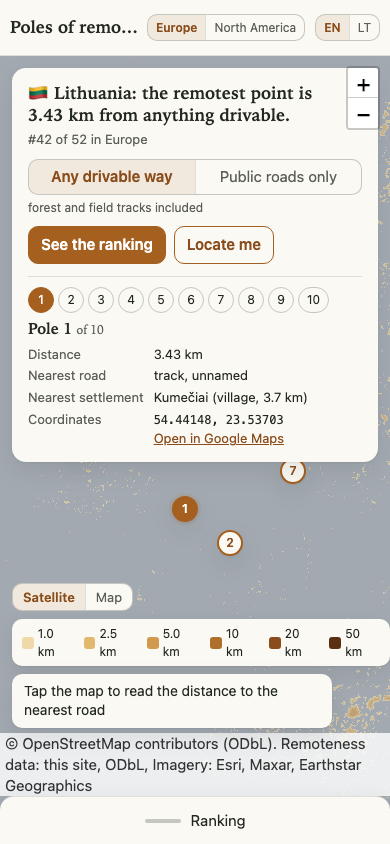
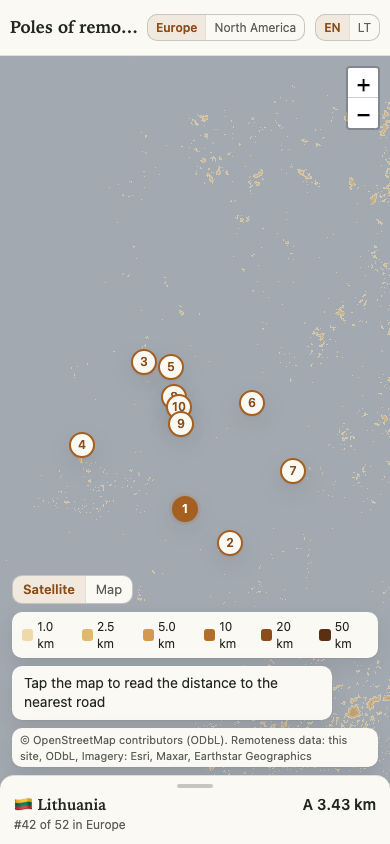
site: on phones the card is the top of the bottom sheet, the stack above it measured (#32)
The floating card covered half a phone screen and could not be hidden.
It now moves into the sheet body when the phone query matches, with a
one-row summary on the handle; the attribution joins the controls
column and the sheet publishes its closed height as --sheet-h, so no
rule encodes a rendered height. Desktop screenshots byte-identical,
phone set re-rendered, 66 node tests.

Claude-Session: https://claude.ai/code/session_01TDBtxyqUTxMYf4LU4QXe3f

diff --git a/site/css/app.css b/site/css/app.css
@@ -31,6 +31,10 @@
   --t: 170ms cubic-bezier(.3, .7, .3, 1);
   --panel-w: 360px;
   --hdr-h: 56px;
+  /* The height of the closed phone sheet, measured and written by js/ranking.js because it depends on what
+     the card's summary row wraps to. Only the phone rules read it; the zero is what the page looks like
+     before the sheet has been measured, never a layout figure. */
+  --sheet-h: 0px;
   color-scheme: light;
 }
 
@@ -115,6 +119,9 @@ button { font: inherit; color: inherit; }
 /* Card (task 6 and 8) */
 .card { position: absolute; left: 12px; top: 12px; z-index: 900; width: min(380px, calc(100% - 24px));
   background: var(--panel); border-radius: var(--r-lg); box-shadow: var(--shadow); padding: 14px 16px; }
+/* The card's summary row belongs to the phone sheet's handle (see the media query). On desktop the card
+   itself says all of it at the top of the map, so the row is not painted at all. */
+.card-summary { display: none; }
 
 /* Readout (task 5) */
 .readout { padding: 8px 12px; background: var(--panel); border-radius: var(--r-md); box-shadow: var(--shadow);
@@ -201,26 +208,46 @@ html[lang="en"] .about__body [data-lang="lt"], html[lang="lt"] .about__body [dat
   .hdr--regions .seg__btn { padding: 4px 8px; font-size: 12px; white-space: nowrap; }
   .panel { top: auto; left: 0; right: 0; width: auto; border-left: 0; border-top: 1px solid var(--hair);
     border-radius: var(--r-lg) var(--r-lg) 0 0; box-shadow: var(--shadow); transition: height var(--t); }
-  .panel--collapsed { height: 48px; }
+  /* The closed sheet is exactly its handle, whatever the summary row inside it wraps to; js/ranking.js
+     measures that and writes --sheet-h. A missing variable leaves the height at auto, which is the same
+     figure without the transition, so the sheet is never wrong, only unanimated. */
+  .panel--collapsed { height: var(--sheet-h); }
   .panel--half { height: 45%; }
   .panel--full { height: calc(100% - 8px); }
-  .panel__handle { display: flex; align-items: center; justify-content: center; gap: 10px; width: 100%; height: 48px;
-    border: 0; background: none; cursor: pointer; }
-  .panel__grip { width: 36px; height: 4px; border-radius: 2px; background: var(--hair-strong); }
+  /* The handle is the sheet's face: the grip, then the card's summary row. The button is the whole face, so
+     the tap target is as wide as the screen and as tall as the summary needs. It never shrinks: the panel's
+     height is derived from it, and a handle that gave way to a stale height would keep it stale. */
+  .panel__handle { display: flex; flex: none; flex-direction: column; align-items: stretch; gap: 6px; width: 100%;
+    padding: 8px 14px 10px; border: 0; background: none; cursor: pointer; text-align: left; }
+  .panel__grip { align-self: center; width: 36px; height: 4px; border-radius: 2px; background: var(--hair-strong); }
+  /* The summary row, the card's first two lines said in one: the unit, its distance in the active scenario,
+     its rank. With it on the handle the word "Ranking" would only repeat what the body says, so it goes. */
+  .card-summary { display: block; }
+  .card-summary[hidden] { display: none; }
+  .card-summary:not([hidden]) ~ .panel__handle-text { display: none; }
+  .card-summary__line { display: flex; align-items: baseline; gap: 8px; }
+  .card-summary__name { flex: 1; min-width: 0; font: 600 15px/1.3 var(--serif); }
+  .card-summary__none { display: block; font: 600 15px/1.3 var(--serif); }
+  .card-summary__dist { flex: none; font-weight: 600; font-variant-numeric: tabular-nums; white-space: nowrap; }
+  .card-summary__rank { display: block; font-size: 12px; color: var(--ink-2); }
   .panel--collapsed .panel__body { display: none; }
-  /* The bottom stack on a phone, from the screen edge up: the collapsed sheet's 48px handle, then the
-     Leaflet attribution, then the map controls. The attribution defaults to the very bottom, where it hides
-     the grip and swallows the tap; lifting it clear of the handle costs the controls its height in turn
-     (three lines at these widths), or it would cover the readout pill. Leaflet parks its control corners at
-     z-index 1000, above the sheet, so the attribution is dropped to the map controls' layer as well: an open
-     sheet has to cover it, not be sliced by it. */
-  .leaflet-bottom { bottom: 48px; z-index: 800; }
-  .mapctl { bottom: 116px; }
-  .card { width: calc(100% - 24px); }
-  /* The full-width card runs under Leaflet's zoom control, which stays where Leaflet puts it (top right of
-     the map, 34px wide with its border, 10px of margin, 64px tall on a touch device): its left edge is 44px
-     from the screen edge. The card sits 12px in and pads 16px, so its text already stops 28px from the edge;
-     24px more leaves 8px of clearance. The card's top two lines are the ones the control reaches, so they
-     wrap before it instead of under it (#34). */
-  .card__headline, .card__rank { padding-right: 24px; }
+  /* The card is moved into the sheet body here (js/app.js), so it stops being a box over the map and becomes
+     the body's first section, scrolling with the ranking under it. Its headline and rank line stay behind:
+     the summary row on the handle says both, and says them whether the sheet is open or shut. */
+  .panel .card { position: static; width: auto; padding: 0 0 12px; margin: 0 0 12px; background: none;
+    border-radius: 0; box-shadow: none; border-bottom: 1px solid var(--hair); }
+  .panel .card__headline, .panel .card__rank { display: none; }
+  /* The bottom stack on a phone, from the screen edge up: the sheet at its measured height, then one column
+     holding the base map switch, the legend, the readout pill and the Leaflet attribution, which js/app.js
+     moves in here. Stacking the attribution rather than lifting the controls over it is what takes its
+     rendered height out of the layout: it wraps to as many lines as the width needs and the column grows
+     with it (#32). Leaflet parks its control corners at z-index 1000, above the sheet, so all four corners
+     drop to this column's layer: an open sheet has to cover the map's own furniture, not be sliced by it.
+     The zoom control is the corner that matters, sitting where the full sheet's summary row lands. */
+  .leaflet-top, .leaflet-bottom { z-index: 800; }
+  .mapctl { right: 12px; bottom: calc(var(--sheet-h) + 8px); }
+  /* Out of .leaflet-container the attribution loses Leaflet's own background, which was white in both
+     schemes anyway; here it wears the skin the legend and the readout wear. */
+  .mapctl .leaflet-control-attribution { background: var(--panel); color: var(--ink-2); font-size: 11px;
+    padding: 4px 8px; border-radius: var(--r-md); box-shadow: var(--shadow); }
 }

diff --git a/site/js/card.js b/site/js/card.js
@@ -1,7 +1,9 @@
 // The card: the headline sentence for the unit, the scenario toggle, the two actions, and the selected pole.
+// The summary element is the same facts in one row, for the phone sheet's handle; it is optional, so a
+// caller with nowhere to put it can leave it out.
 import { t, unitName, regionLabel, flag, fmtDist, fmtKmExact, highwayLabel, placeLabel, esc } from './i18n.js';
 
-export function createCard(el, { onScenario, onRanking, onLocate, onPole }) {
+export function createCard(el, { summary, onScenario, onRanking, onLocate, onPole }) {
   let view = null; // { region, unit, units, doc, scenario, rank }
 
   el.addEventListener('click', (e) => {
@@ -13,22 +15,43 @@ export function createCard(el, { onScenario, onRanking, onLocate, onPole }) {
     else if (b.dataset.rank) onPole(Number(b.dataset.rank));
   });
 
-  function headline(v) {
-    const name = unitName(v.unit);
-    // A unit below country level has no flag (the emoji is built from a two-letter country code), so the
-    // slot and the space after it go away rather than render empty.
+  // The unit's name, and the flag ahead of it. A unit below country level has no flag (the emoji is built
+  // from a two-letter country code), so the slot and the space after it go away rather than render empty.
+  function names(v) {
     const mark = flag(v.unit.code);
-    const lead = mark ? `${esc(mark)} ` : '';
+    return { name: unitName(v.unit), lead: mark ? `${esc(mark)} ` : '' };
+  }
+
+  // Why a unit shows no distance for this scenario: held back by validation, or nothing found at all.
+  function reasonFor(v) {
+    const d = v.doc && v.doc[v.scenario];
+    return d && d.withheld ? t('reasonWithheld') : t('reasonNone');
+  }
+
+  // How many units of the region have a result in this scenario: the "of 52" in the rank line.
+  const ranked = (v) => v.units.filter((u) => u[v.scenario]).length;
+
+  function headline(v) {
+    const { name, lead } = names(v);
     const sum = v.unit[v.scenario];
-    if (!sum) {
-      const d = v.doc && v.doc[v.scenario];
-      const reason = d && d.withheld ? t('reasonWithheld') : t('reasonNone');
-      return `<p class="card__headline">${lead}${esc(t('noPoles', { name, reason }))}</p>`;
-    }
+    if (!sum) return `<p class="card__headline">${lead}${esc(t('noPoles', { name, reason: reasonFor(v) }))}</p>`;
     const what = t(v.scenario === 'A' ? 'headlineA' : 'headlineB');
-    const count = v.units.filter((u) => u[v.scenario]).length;
+    const count = ranked(v);
     return `<p class="card__headline">${lead}${esc(t('headline', { name, km: fmtKmExact(sum.dist_m), what }))}</p>
       <p class="card__rank">${esc(t('rankOf', { rank: sum.rank, count, region: regionLabel(v.region) }))}</p>`;
+  }
+
+  // The one row the phone sheet carries while it is closed: who, how far, and where that ranks. It says what
+  // the headline says in fewer words, so it needs no dictionary entry of its own. The scenario letter is
+  // there because the distance changes with it and the toggle is inside the sheet, out of sight.
+  function summaryHtml(v) {
+    const { name, lead } = names(v);
+    const sum = v.unit[v.scenario];
+    if (!sum) return `<span class="card-summary__none">${lead}${esc(t('noPoles', { name, reason: reasonFor(v) }))}</span>`;
+    // The line breaks below fall between block level boxes and inside a flex row, so none of them paints.
+    return `<span class="card-summary__line"><span class="card-summary__name">${lead}${esc(name)}</span>
+      <b class="card-summary__dist">${esc(t(`scenarioShort_${v.scenario}`))} ${esc(fmtKmExact(sum.dist_m))}</b></span>
+      <span class="card-summary__rank">${esc(t('rankOf', { rank: sum.rank, count: ranked(v), region: regionLabel(v.region) }))}</span>`;
   }
 
   function poleBlock(v) {
@@ -59,7 +82,14 @@ export function createCard(el, { onScenario, onRanking, onLocate, onPole }) {
       </dl>${withheld}</div>`;
   }
 
+  function renderSummary() {
+    if (!summary) return;
+    summary.innerHTML = view ? summaryHtml(view) : '';
+    summary.hidden = !view;
+  }
+
   function render() {
+    renderSummary();
     if (!view) { el.hidden = true; return; }
     const v = view;
     el.innerHTML = `${headline(v)}

diff --git a/site/js/ranking.js b/site/js/ranking.js
@@ -21,12 +21,25 @@ export function createRanking(el, { onPick }) {
   const list = el.querySelector('#ranking');
   const note = el.querySelector('#ranking-note');
   const handle = el.querySelector('#panel-handle');
+  const body = el.querySelector('#panel-body');
   let view = { units: [], scenario: 'A', current: null };
   let sheet;
 
+  // What the phone stack above the sheet rests on: the height of the closed sheet, which is the handle plus
+  // the sheet's own top border, and the handle is whatever the card's summary row wraps to at this width in
+  // this language. Measured here and published as --sheet-h, so no rule has to state it and no width has to
+  // be guessed. Rounded up, because a sheet a fraction shorter than its handle would push the grip off the
+  // bottom of the screen. The handle is display:none on desktop, where nothing reads the variable.
+  function measure() {
+    const border = parseFloat(getComputedStyle(el).borderTopWidth) || 0;
+    document.documentElement.style.setProperty('--sheet-h', `${Math.ceil(handle.getBoundingClientRect().height + border)}px`);
+  }
+  if (typeof ResizeObserver === 'function') new ResizeObserver(measure).observe(handle);
+  else window.addEventListener('resize', measure);
+
   // The one place that scrolls the current unit into view, for the desktop panel and the phone sheet alike.
   // A sheet that has just been opened is still animating its height, so this runs against a container that
-  // is about to grow: 'center' would be computed against the 48 px collapsed sheet and land the row a few
+  // is about to grow: 'center' would be computed against the closed sheet's height and land the row a few
   // pixels under the top edge once the sheet has grown. 'start' does not read the container's height; the
   // row's scroll-margin-top keeps the body's top padding above it.
   function showCurrent(block) {
@@ -34,12 +47,17 @@ export function createRanking(el, { onPick }) {
     if (cur) cur.scrollIntoView({ block });
   }
 
-  function setState(next) {
+  // reveal says what the reader was after: 'current' the ranking row of the unit on screen, 'top' the card at
+  // the head of the body, 'keep' whatever they had scrolled to.
+  function setState(next, { reveal = 'current' } = {}) {
     sheet = STATES.includes(next) ? next : 'collapsed';
     STATES.forEach((s) => el.classList.toggle(`panel--${s}`, s === sheet));
     handle.setAttribute('aria-expanded', String(sheet !== 'collapsed'));
+    measure();
+    if (sheet === 'collapsed') return;
     // Opening the sheet at rank 1 hides the unit the reader is looking at, wherever it ranks (#35).
-    if (sheet !== 'collapsed') showCurrent('start');
+    if (reveal === 'current') showCurrent('start');
+    else if (reveal === 'top' && body) body.scrollTop = 0;
   }
 
   function row(u) {
@@ -70,7 +88,13 @@ export function createRanking(el, { onPick }) {
     const b = e.target.closest('button[data-code]');
     if (b) onPick(b.dataset.code);
   });
-  handle.addEventListener('click', () => setState(STATES[(STATES.indexOf(sheet) + 1) % STATES.length]));
+  // The handle opens the card, not the list: on a phone the card's own section is the top of the body, and a
+  // sheet that scrolled straight past it to the ranking would look as if the card were gone. Half to full
+  // keeps the place the reader had scrolled to. "See the ranking" is the way to the list, and it still is.
+  handle.addEventListener('click', () => {
+    const next = STATES[(STATES.indexOf(sheet) + 1) % STATES.length];
+    setState(next, { reveal: sheet === 'collapsed' ? 'top' : 'keep' });
+  });
 
   // The class on the panel and the variable have to start out saying the same thing, so the starting state
   // is applied rather than assumed.

diff --git a/site/js/app.js b/site/js/app.js
@@ -148,7 +148,9 @@ async function main() {
 
   const detail = createDetailOverlays(map, { region, palette });
   const markers = createMarkers(map, { onSelect: (pole) => selectPole(pole.rank, { pan: false }) });
+  const phone = matchMedia('(max-width: 720px)');
   const card = createCard(document.getElementById('card'), {
+    summary: document.getElementById('card-summary'),
     onScenario: (s) => setScenario(s),
     onRanking: () => ui.ranking && ui.ranking.open(),
     onLocate: () => ui.locate && ui.locate(),
@@ -159,10 +161,34 @@ async function main() {
   ui.ranking = createRanking(document.getElementById('panel'), {
     onPick: (code) => {
       openUnit(code, { view: 'pole' });
-      if (matchMedia('(max-width: 720px)').matches) ui.ranking.toggle();
+      if (phone.matches) ui.ranking.toggle();
     },
   });
   ui.ranking.setRows(units, state.s, unit && unit.code);
+
+  // On a phone the card is not a box floating over the map: it is the top of the bottom sheet, its one row of
+  // summary on the handle and the rest of it in the body above the ranking. Leaflet's attribution joins the
+  // map controls' column at the same time, so the stack above the sheet is one flow and no rule has to know
+  // how many lines the attribution wraps to (#32). Both are moves, not rebuilds: the card keeps the listener
+  // card.js gave it, and Leaflet keeps writing into the same attribution element. Nothing moves while the
+  // query does not match, so a desktop page is the page it always was.
+  const cardEl = document.getElementById('card');
+  const stage = document.querySelector('.stage');
+  const mapctl = document.getElementById('mapctl');
+  const panelBody = document.getElementById('panel-body');
+  const attribution = document.querySelector('.leaflet-control-attribution');
+  const attributionHome = attribution && attribution.parentElement;
+  function placeForWidth() {
+    const cardHost = phone.matches ? panelBody : stage;
+    if (cardEl.parentElement !== cardHost) {
+      if (phone.matches) cardHost.prepend(cardEl);
+      else cardHost.insertBefore(cardEl, mapctl);
+    }
+    const attributionHost = phone.matches ? mapctl : attributionHome;
+    if (attribution && attributionHost && attribution.parentElement !== attributionHost) attributionHost.append(attribution);
+  }
+  placeForWidth();
+  phone.addEventListener('change', placeForWidth);
 
   ui.locate = () => {
     say({ kind: 'loading' }, { sticky: true });

diff --git a/site/index.html b/site/index.html
@@ -29,7 +29,8 @@
 <main class="stage">
   <div id="map" class="map"></div>
 
-  <!-- Task 6 and Task 8: the card -->
+  <!-- Task 6 and Task 8: the card. On phones js/app.js moves this element into the sheet body below, where it
+       sits above the ranking; on desktop it stays here, floating over the map. -->
   <section class="card" id="card" hidden></section>
 
   <!-- Task 5: map controls and readout -->
@@ -44,8 +45,11 @@
 
   <!-- Task 7: the ranking -->
   <aside class="panel panel--collapsed" id="panel" data-i18n-aria="rankingTitle">
+    <!-- The handle is the phone sheet's face, so the card's summary row rides inside it: the whole face is one
+         tap target. Spans only, because a button may carry no flow content. It paints nothing on desktop. -->
     <button type="button" class="panel__handle" id="panel-handle" aria-expanded="false" aria-controls="panel-body">
       <span class="panel__grip" aria-hidden="true"></span>
+      <span class="card-summary" id="card-summary" hidden></span>
       <span class="panel__handle-text" data-i18n="rankingTitle"></span>
     </button>
     <div class="panel__body" id="panel-body">

diff --git a/docs/OVERVIEW.md b/docs/OVERVIEW.md
@@ -27,7 +27,7 @@ The LT-only site was a finished quick demo (owner decision 2026-08-20: disposabl
 
 **Stage 3 (#9, publish) has its local part done 2026-08-22**: the `publish` stage (class rasters, explore archives, 50 m detail rasters, R2 upload and verification, site documents), 372 pytest tests green, and one Europe local run of record (commit 3b0dbd4, 962 s; numbers in spec 3.3 and 4.1). Since the final review's fix round the stage fingerprints its inputs (`publish/inputs.json`, `detail/published.json`) and resets what a changed class table, grid raster, edge band or `--force` invalidates, so a rerun never resumes over stale artefacts; the run of record on disk is adopted as is, except that `detail/` rebuilds once (about 8 minutes) at the R2 rerun. What that run added on disk under `work/europe/2026-08-19/publish/`: `A.pmtiles` (114.2 MB) and `B.pmtiles` (128.3 MB), z0 to z9, one class byte per pixel, and 909 detail rasters over a 20 km window with their JSON georeference sidecars (13.6 MB; five are blank because their poles sit on islets narrower than a 50 m pixel), plus the class rasters and Mercator warps behind them. **The R2 part ran 2026-08-23 once the owner enabled R2**: the stage created bucket `poles-data` with its managed `r2.dev` domain and CORS rule, uploaded Europe (1,823 objects, 268,576,827 bytes, 84 s at two parts in flight), verified every key with a HEAD and each archive with a range request over the public hostname, and wrote `site/data/regions.json`, `manifest.json` (each region entry records the pipeline commit that published it), `europe/units.json` and the 52 unit documents, committed on `europe`. Three things the first real run taught, each fixed with a test the same evening: the `r2.dev` edge answers 403 to urllib's default User-Agent, so the probes name themselves (#49); its rate limiter is a window budget, so a 429 now holds every verification thread for 5, 15 and 30 s; and a request that never got an answer (one resolver hiccup in 1,825) is retried like a 429. The bucket holds both regions, 4,352 objects and 704,833,574 bytes, 6.6 percent of the free 10 GB. **Stage 3 is closed (#9).** #20 and #21 are answered by this stage and closed with it, #20 differently from its title: the published `area_km2` is stage 2's land-cell figure, because the OSM unit outlines include territorial waters (Malta 4,354 km2 against 347 km2 of land). **Open for the owner**: (1) the contact sheet is still waiting for a look, and with it the minimum-island-size question, because sub-cell offshore rocks legitimately win poles under the current rules (Finland A and B at Bogskar 52.8 km, Croatia B at Palagruza, Iceland at Kolbeinsey, Guernsey and Jersey skerries), posted on #8; (2) the five blank detail rasters (Bell Rock, Kolbeinsey, a Pembrokeshire rock) are the same question in another form, posted on #9 and carried by #30. The contact sheet and the blank rasters do not block stage 4. `main` still serves the LT site untouched.
 
-**Stage 4 (#10, the site) is built on `europe`, 2026-08-22 and 2026-08-23**: a region-agnostic front end under `site/` and the development harness under `dev/` that makes it testable before R2 exists. Nothing in the code names a region; the run of record only appears in defaults and in the CI budget list. What the site does: the path is `/<region>/<unit>` and the rest of the state rides in the hash (scenario, pole, position, basemap, language), the explore layer decodes the published PMTiles class archives with 255 as nodata (#26) and `min_zoom` from their metadata, a tap anywhere reads the class out, zoom 12 and above swaps in the 50 m detail raster of the open pole, the card carries the headline sentence, the regional rank and the ten poles with their nearest road and settlement (a null settlement name and a blank detail raster both render), the ranking panel lists every unit of the region sorted by the active scenario and becomes a three-height bottom sheet on phones, "Locate me" opens the visitor's unit, and the About dialog explains the method in both languages. `worker.js` stamps the visitor's coarse country and region from `request.cf` into the page as a meta tag, so the first screen needs no geolocation prompt, and logs one Analytics Engine row of eight blobs (the LT site's six plus the landing region and unit) to `poles_views`, or `poles_preview_views` on the preview. The harness: `dev/serve.mjs` serves `site/` with the SPA rule, the dev JSON under `/data/` and the local publish directory under `/r2/` with HTTP ranges; `dev/site-json.py` builds the site documents from the run of record with a local `r2_base`; `node --test 'dev/tests/*.test.mjs'` is 59 unit tests over the router, data, i18n, palette, readout, card, ranking, detail, the dev server and the worker helpers, run in CI by `site-tests.yml`. `dev/screenshots.mjs` is the UI test suite: eleven Playwright views written to `docs/screenshots/` with the basemap stubbed grey, the seven desktop images byte-identical run to run. CI (`deploy-cloudflare.yml`) deploys the preview worker on every push to `europe`, writes `site/version.json` at deploy and verifies that exact commit is live, then measures the first screen against a 256 KB budget. Everything above was verified locally against the run of record through the dev server; the preview worker at `https://atokiausia-lietuva-preview.donatas-kasparavicius.workers.dev` has been live since the branch's first push on 2026-08-23 (commit 10abf6f, the final review's fix rounds included). **Done at the R2 rerun, 2026-08-23**: `site/data/` carries both regions, the budget step runs with `JSON_STRICT: 1` (a missing data file fails it), and the preview worker serves real data from `site/data/` and R2 (`https://pub-32ed0225f9884314b6a77f6eb0087b70.r2.dev`). **Open, filed during the stage**: #30 (a pole on an islet narrower than a pixel gets an all-nodata detail raster, and the site shows the explore layer under it), #31 (the region name in the card's rank line was untranslated; closed at the R2 rerun, `regions.json` carries `names`), #32 (the phone vertical budget: the card is tall on small phones and the attribution height is a fragile constant), #33 ("Locate me" resolves the unit by bounding box; the proper fix is lazy unit outlines). #34 and #35 (the phone zoom control over the headline, the phone sheet opening at rank 1) were found by the screenshot suite and fixed before the push.
+**Stage 4 (#10, the site) is built on `europe`, 2026-08-22 and 2026-08-23**: a region-agnostic front end under `site/` and the development harness under `dev/` that makes it testable before R2 exists. Nothing in the code names a region; the run of record only appears in defaults and in the CI budget list. What the site does: the path is `/<region>/<unit>` and the rest of the state rides in the hash (scenario, pole, position, basemap, language), the explore layer decodes the published PMTiles class archives with 255 as nodata (#26) and `min_zoom` from their metadata, a tap anywhere reads the class out, zoom 12 and above swaps in the 50 m detail raster of the open pole, the card carries the headline sentence, the regional rank and the ten poles with their nearest road and settlement (a null settlement name and a blank detail raster both render), the ranking panel lists every unit of the region sorted by the active scenario and becomes a three-height bottom sheet on phones, "Locate me" opens the visitor's unit, and the About dialog explains the method in both languages. `worker.js` stamps the visitor's coarse country and region from `request.cf` into the page as a meta tag, so the first screen needs no geolocation prompt, and logs one Analytics Engine row of eight blobs (the LT site's six plus the landing region and unit) to `poles_views`, or `poles_preview_views` on the preview. The harness: `dev/serve.mjs` serves `site/` with the SPA rule, the dev JSON under `/data/` and the local publish directory under `/r2/` with HTTP ranges; `dev/site-json.py` builds the site documents from the run of record with a local `r2_base`; `node --test 'dev/tests/*.test.mjs'` is 59 unit tests over the router, data, i18n, palette, readout, card, ranking, detail, the dev server and the worker helpers, run in CI by `site-tests.yml`. `dev/screenshots.mjs` is the UI test suite: eleven Playwright views written to `docs/screenshots/` with the basemap stubbed grey, the seven desktop images byte-identical run to run. CI (`deploy-cloudflare.yml`) deploys the preview worker on every push to `europe`, writes `site/version.json` at deploy and verifies that exact commit is live, then measures the first screen against a 256 KB budget. Everything above was verified locally against the run of record through the dev server; the preview worker at `https://atokiausia-lietuva-preview.donatas-kasparavicius.workers.dev` has been live since the branch's first push on 2026-08-23 (commit 10abf6f, the final review's fix rounds included). **Done at the R2 rerun, 2026-08-23**: `site/data/` carries both regions, the budget step runs with `JSON_STRICT: 1` (a missing data file fails it), and the preview worker serves real data from `site/data/` and R2 (`https://pub-32ed0225f9884314b6a77f6eb0087b70.r2.dev`). **Open, filed during the stage**: #30 (a pole on an islet narrower than a pixel gets an all-nodata detail raster, and the site shows the explore layer under it), #31 (the region name in the card's rank line was untranslated; closed at the R2 rerun, `regions.json` carries `names`), #32 (the phone vertical budget: the card is tall on small phones and the attribution height is a fragile constant; closed 2026-09-05, on phones the card is the top of the bottom sheet and the stack above it is measured, not assumed), #33 ("Locate me" resolves the unit by bounding box; the proper fix is lazy unit outlines). #34 and #35 (the phone zoom control over the headline, the phone sheet opening at rank 1) were found by the screenshot suite and fixed before the push.
 
 **Stage 5 (#11, North America) is built on `europe`, 2026-08-23**: the second region, from `pipeline/regions/north-america.yaml` (the `us` and `ca` countries at admin level 4, the Hawaii mask, the 500 km cap, two references) through a full run on this machine to the site's region control, with nothing in the code naming the region. What the pipeline gained for it: the antimeridian is handled once and in one way, a unit bbox may run past 180 and every reader wraps into it, the `.poly` seam is dissolved before check 3 and before the published edge band, water bodies are cut at the line, and the detail raster wraps its pixel longitudes (#22 closed; the four latent cases #36 to #39 filed); a level-4 unit carries its state or province name and no flag, and one whose country is missing from the extract is skipped with a warning instead of aborting the run; the search bounds every cell with its own pad, caches each result when its own job finishes and no longer pins road windows (#43, #45, #46, found by the run and fixed during it). The run of record: 64 units (the 50 states with the District of Columbia, the 10 provinces and 3 territories; the gate measured exactly the `expected_units`), 1,266 poles in 6,163 s on two workers, validation with 0 blocking failures and 5 warnings in 8,079 s (the four western Aleutian poles excluded at the extract's open-ocean edge, #19, and the Frank Church reference 8.2 km from our rank 5), and the publish stage's local part through to the same `PublishError` as Europe's (2,569 s, `A.pmtiles` 206.7 MB and `B.pmtiles` 197.6 MB, 1,262 detail rasters; the numbers are in spec 3.3 and 4.1). The contact sheet is posted to #11 for the owner's review; its notable poles are St. Matthew Island (Alaska, 366 km), Kaula (Hawaii, 36 km), Sable Island (Nova Scotia B, 177 km) and Rock Creek Park (the District of Columbia A, 0.5 km), all legitimate. The site: `regionLinks` gives the header a region control as soon as `regions.json` lists two regions, as links rather than a switch; a level-4 unit shows its name in the ranking where a country shows a flag; `dev/screenshots.mjs` gained `desktop-us-ak`, Alaska drawn in one piece across the line; region names ride in the region config by language (`names`), so the Lithuanian UI reads Europa and Šiaurės Amerika (#41 closed; `Intl.DisplayNames` localises countries only, see DECISIONS); `pytest` 432 and the node suite 59 tests green on the branch. **Done at the R2 rerun, 2026-08-23**: North America in R2 (2,529 objects, 436,256,747 bytes, about two minutes to upload), `manifest.json` with two regions, `site/data/north-america/` with its 64 unit documents, `JSON_STRICT` at 1; #11's two R2 boxes are ticked with the evidence, the contact sheet box stays the owner's. **Open, filed during the stage**: #36 to #39 (latent antimeridian cases in the boundary assembler, the road tile pass, `dissolve_seam` and Leaflet's far-side marker), #40 (a region link drops the hash; closed 2026-08-30, the links now carry scenario, basemap and language), #44 (no end-to-end test of the search).
 
@@ -40,7 +40,7 @@ The LT-only site was a finished quick demo (owner decision 2026-08-20: disposabl
 A bullet here works today, end to end. Anything that waits on a step, a credential or a rerun is either marked **Not yet** on its own bullet or lives in the list below; nothing sits between the two lists.
 
 - The pipeline through publishing for two regions (`pipeline/`; `poles run north-america` ran the same stages on the 2026-08-22 snapshot on 2026-08-23, 64 units, numbers in spec 3.3): `poles run europe` fetches and verifies the six Geofabrik PBFs, extracts highways, boundaries, places, water and land into FlatGeobuf layers, classifies roads into scenarios A and B, computes the 250 m distance grids (`work/europe/2026-08-19/grid/dist_A.tif`, `dist_B.tif`, `land.tif`, 28,588 x 23,625 cells, EPSG:3035) with a tiled exact transform, assembles 52 country units from the OSM boundary relations, searches each unit and scenario by branch-and-bound down to an exact 5 m sweep in the local UTM zone with nearest road and nearest settlement attribution, validates every published pole against an independent geodesic path (report, contact sheet, non-zero exit on a blocking failure), and publishes: it drops the poles validation excluded, quantises the grids into class rasters with the edge band and the sea masked, builds a z0 to z9 PMTiles archive per scenario, renders a 50 m detail raster per published pole with a georeference sidecar, uploads the archives, the detail rasters and the validation artefacts to R2 and verifies each key with a HEAD and a range request, then writes the four site JSON documents against the frozen schemas in `poles/schemas/`; every stage resumes from `done.json` and the long sub-steps from per-artefact `.ok` markers; the same code runs in the container (`pipeline/Dockerfile`) and CI (`pipeline-tests.yml`). The upload and the verification ran for real on 2026-08-23 for both regions (bucket `poles-data`, 4,352 objects, 704.8 MB)
-- Europe site (`site/` plus `dev/`, live at https://polesofremoteness.com since 2026-08-24, on the preview worker since 2026-08-23): plain ES modules, no build step, vendored Leaflet 1.9.4 and pmtiles 4.5.0; `/<region>/<unit>` paths with the rest of the state in the hash, the explore layer from the PMTiles class archives, a 50 m detail overlay from zoom 12, the readout, the card, the ranking panel and phone sheet, "Locate me" from the worker's visitor meta tag, the About dialog, lt and en. Behind it: the dev server and dev site JSON in `dev/`, 59 node unit tests, the eleven screenshots in `docs/screenshots/`, and CI that deploys the preview worker from `europe`, verifies the commit through `version.json` and measures the first screen against a 256 KB budget. Since 2026-08-23 it serves both regions, the JSON from `site/data/` and the archives and detail rasters from R2
+- Europe site (`site/` plus `dev/`, live at https://polesofremoteness.com since 2026-08-24, on the preview worker since 2026-08-23): plain ES modules, no build step, vendored Leaflet 1.9.4 and pmtiles 4.5.0; `/<region>/<unit>` paths with the rest of the state in the hash, the explore layer from the PMTiles class archives, a 50 m detail overlay from zoom 12, the readout, the card, the ranking panel and phone sheet, "Locate me" from the worker's visitor meta tag, the About dialog, lt and en. Behind it: the dev server and dev site JSON in `dev/`, 66 node unit tests, the eleven screenshots in `docs/screenshots/`, and CI that deploys the preview worker from `europe`, verifies the commit through `version.json` and measures the first screen against a 256 KB budget. Since 2026-08-23 it serves both regions, the JSON from `site/data/` and the archives and detail rasters from R2
 - The original LT build (`scripts/01..06`, retired 2026-08-24): scenarios A and B on a 50 m grid from a 2026-08-17 snapshot; its `site/data` files are deleted, its results live in `out/` and git history; kept for the story, not developed
 - Site: lt/en i18n, URL-hash state, satellite default basemap, mobile bottom pill, dark variant
 - Analytics: edge logger to Workers Analytics Engine (ground truth since 2026-08-18; dataset `poles_views` since the cutover, the LT-era `atokiausia_views` series left to age out), plus raw asset request counts for volume. The CF Web Analytics beacon was removed 2026-08-20 as redundant once the mirror was gone.
@@ -50,7 +50,7 @@ A bullet here works today, end to end. Anything that waits on a step, a credenti
 
 ## Not done yet / parked (build only on owner's go)
 
-- Europe and North America version: stages 1 to 6 done (#7 to #12; live at https://polesofremoteness.com since 2026-08-24); remaining: automated refresh (#13, parked). #10 closes when the R2 rerun has been made and the owner has confirmed or waived the items that need a real browser and a real visitor. Open pipeline follow-ups: #17 (road tile rebuild takes an hour), #18 (per-unit cache not invalidated by a grid rerun), #19 (edge bound flags poles behind open-sea legs of the extract edge: Hornstrandir, then the western Aleutians), #23 (validate, attribution and road-tile tightenings). Filed during stage 3: #24 (validate a region's `class_table` at config load), #25 (share the data-edge polygon helper between validate and publish), #26 (decode tiles with 255 as nodata, `min_zoom` from the published metadata: done by stage 4's explore layer, closes with #10), #27 (detail road query pad breaks down above about 80 N), #28 (pole coordinates rounded to six decimals can fall just outside their land polygon), #29 (publish tightenings from the stage-3 final review). Filed during stage 4: #30 (a pole on a sub-pixel islet has an all-nodata detail raster), #31 (untranslated region name in the card's rank line, fix at the R2 rerun), #32 (phone vertical budget and the fragile attribution constant), #33 (locate resolves the unit by bounding box; lazy unit outlines are the proper fix), #34 and #35 (phone layout, fixed before the push, closed). Filed during stage 5: #36 to #39 (latent antimeridian cases), #44 (no end-to-end search test); #22, #41, #43, #45 and #46 were fixed and closed during the stage, and #40 (a region link dropped the hash) was fixed 2026-08-30 together with its sibling #51 (the header home link dropped it too).
+- Europe and North America version: stages 1 to 6 done (#7 to #12; live at https://polesofremoteness.com since 2026-08-24); remaining: automated refresh (#13, parked). #10 closes when the R2 rerun has been made and the owner has confirmed or waived the items that need a real browser and a real visitor. Open pipeline follow-ups: #17 (road tile rebuild takes an hour), #18 (per-unit cache not invalidated by a grid rerun), #19 (edge bound flags poles behind open-sea legs of the extract edge: Hornstrandir, then the western Aleutians), #23 (validate, attribution and road-tile tightenings). Filed during stage 3: #24 (validate a region's `class_table` at config load), #25 (share the data-edge polygon helper between validate and publish), #26 (decode tiles with 255 as nodata, `min_zoom` from the published metadata: done by stage 4's explore layer, closes with #10), #27 (detail road query pad breaks down above about 80 N), #28 (pole coordinates rounded to six decimals can fall just outside their land polygon), #29 (publish tightenings from the stage-3 final review). Filed during stage 4: #30 (a pole on a sub-pixel islet has an all-nodata detail raster), #31 (untranslated region name in the card's rank line, fix at the R2 rerun), #33 (locate resolves the unit by bounding box; lazy unit outlines are the proper fix), #34 and #35 (phone layout, fixed before the push, closed); #32 (the phone card covered half the screen, confirmed by the owner on a real phone) was fixed 2026-09-05 by making the card the top of the bottom sheet on phones. Filed during stage 5: #36 to #39 (latent antimeridian cases), #44 (no end-to-end search test); #22, #41, #43, #45 and #46 were fixed and closed during the stage, and #40 (a region link dropped the hash) was fixed 2026-08-30 together with its sibling #51 (the header home link dropped it too).
 - Stats viewer page for the Analytics Engine data (parked, unchanged)
 - Analytics retention snapshots (AE keeps ~3 months; ground truth starts 2026-08-18, first data at risk ~2026-11-18)
 - Mobile app exercise (Expo, GPS remoteness compass): explicitly not v1; the spec keeps the data usable offline later

diff --git a/docs/DECISIONS.md b/docs/DECISIONS.md
@@ -189,3 +189,9 @@ Made while turning `docs/EUROPE_PLAN.md` Stage 4 into the step-level plan (`docs
 
 - **The bucket keeps CORS `*`; spec task 6.3's lock to the site origin is not taken.** The data is public read-only either way, and a locked origin list would break the preview worker and anyone running `site/` locally per the README, which the public repo now invites. `POLES_R2_CORS` exists for the day a lock is wanted.
 - **A HEAD 200 without Content-Length is proven by a one-byte range.** The CDN in front of `data.polesofremoteness.com` streams text/html chunked, so the two validation HTML files per region failed the strict size requirement that `r2.dev` always satisfied. The verifier now answers such a HEAD with a `bytes=0-0` GET and accepts a 206 whose Content-Range names a total; a range answered 200 (an error page, a proxy ignoring Range) stays a failure.
+
+## 2026-09-05: The phone card
+
+- **On phones the card is the top of the bottom sheet, not a box over the map.** The owner's phone check on the live site (#10): the floating card took half the screen and could not be hidden or moved (#32). Rather than a hide button or a draggable box, the card moves into the ranking sheet's body when the phone media query matches (a DOM move, so its listeners survive), and a one-row summary of it (unit, distance in the active scenario, rank) rides on the sheet handle, so the closed sheet still says the headline and the map above it is free. Desktop is untouched, verified byte-identical on the seven desktop screenshots.
+- **The stack above the phone sheet is measured, not assumed.** The old rule encoded the attribution's rendered height at 390 px as a pixel constant, which broke on narrower phones. Now the sheet publishes its own closed height as `--sheet-h` (a ResizeObserver on the handle), the attribution joins the map controls' column, and every corner of Leaflet's furniture drops below the sheet on phones so the full sheet covers the zoom control instead of being sliced by it. Checked at 320, 360 and 390 px in both languages and every sheet state.
+- **The handle opens the sheet at the card, not at the current ranking row.** #35 wanted the reader's own unit in view when the sheet opens; with the card at the head of the body that unit is what the top of the sheet shows. "See the ranking" still scrolls to the current row.

diff --git a/docs/screenshots/README.md b/docs/screenshots/README.md
@@ -13,9 +13,9 @@ with a flat grey tile so the images are deterministic, and writes this set:
 | desktop-detail.png | 1440x900 | zoom 13 on pole 1, detail overlay on; the script clicks the map once to fill the readout |
 | desktop-about.png | 1440x900 | the About dialog |
 | desktop-us-ak.png | 1440x900 | /north-america/us-ak, scenario A, English: the region control in the header, a unit that straddles the antimeridian drawn in one piece, a state name where a country shows a flag |
-| phone-lt.png | 390x844 | /europe/lt, sheet collapsed |
+| phone-lt.png | 390x844 | /europe/lt, sheet collapsed: the card's summary row on the sheet handle, the map free above the controls column (base map switch, legend, readout, attribution) |
 | phone-lt-lang-lt.png | 390x844 | same, Lithuanian |
-| phone-ranking.png | 390x844 | the script taps the sheet handle: sheet at half height, scrolled to the current unit |
+| phone-ranking.png | 390x844 | the script taps the sheet handle: sheet at half height, the card at the top of its body and the ranking below it |
 | phone-about.png | 390x844 | the About dialog, Lithuanian; the script opens the sheet first, because the About button sits in the panel body |
 
 Rule: a change that touches only phone styles must leave every `desktop-*.png` byte-identical
